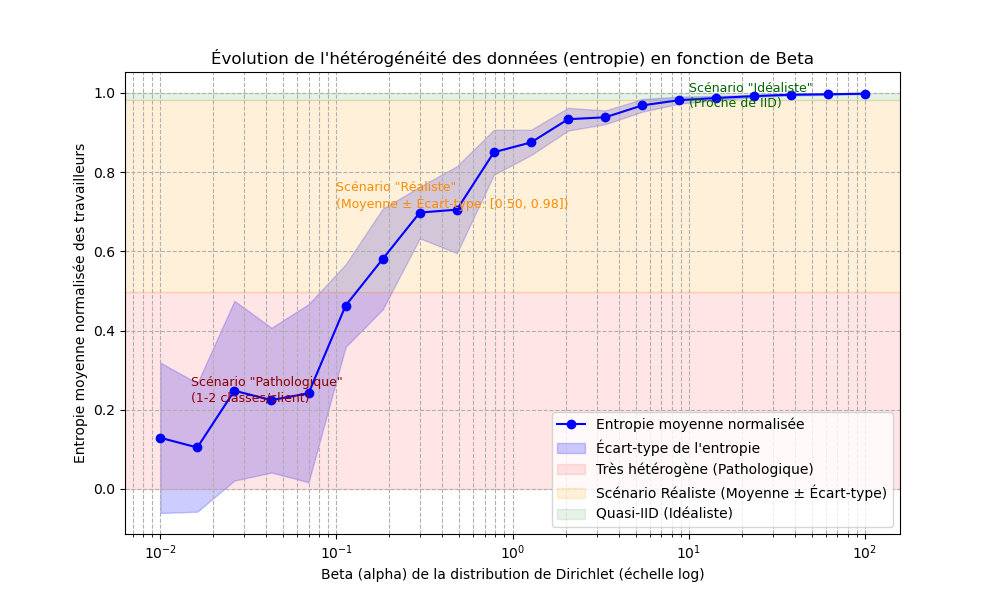
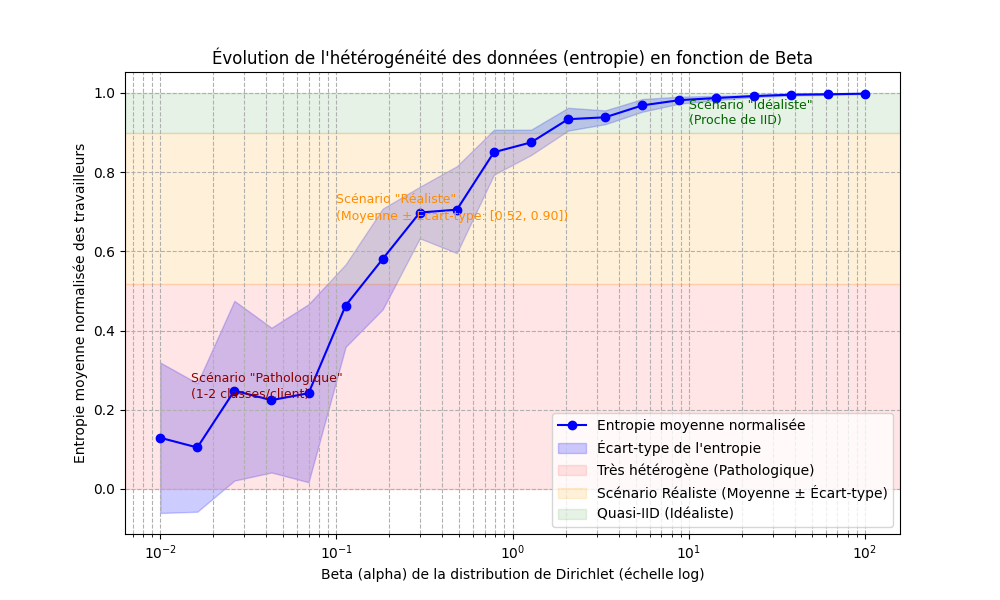
finance

diff --git a/finance/data_finance.py b/finance/data_finance.py
@@ -1,0 +1,105 @@
+import yfinance as yf
+import pandas as pd
+import numpy as np
+import seaborn as sns
+import matplotlib.pyplot as plt
+import json
+import os
+
+# Définition des "Profils" de clients via des tickers spécifiques
+# Chaque liste représente un worker avec une "histoire" différente
+sectors = {
+    "Worker_Tech_Volatile": ['NVDA', 'AMD', 'TSLA', 'BTC-USD'],
+    "Worker_Stable_Consumer": ['KO', 'PG', 'JNJ', 'WMT'], # Coca, Procter & Gamble...
+    "Worker_Banking_Cyclical": ['JPM', 'BAC', 'GS', 'C'],
+    "Worker_Energy": ['XOM', 'CVX', 'SHEL', 'TTE'], # Exxon, Chevron, Shell, Total
+    "Worker_Industrial": ['CAT', 'BA', 'GE', 'HON'], # Caterpillar, Boeing, General Electric
+    "Worker_Healthcare": ['PFE', 'MRK', 'UNH', 'ABBV'], # Pfizer, Merck, UnitedHealth
+    "Worker_Retail": ['AMZN', 'HD', 'TGT', 'COST'] # Amazon, Home Depot, Target, Costco
+}
+
+def get_client_data(tickers, start='2020-01-01', end='2023-01-01'):
+    # Téléchargement
+    data = yf.download(tickers, start=start, end=end, progress=False, auto_adjust=True)['Close']
+    
+    # On calcule les rendements (Log-returns sont préférables pour les stats)
+    # Log return assure une meilleure symétrie théorique
+    returns = np.log(data / data.shift(1)).dropna()
+    
+    # On "aplatit" tout en une seule série pour avoir la distribution globale du client
+    # (Comme si le client avait un portefeuille de ces actifs)
+    flat_series = returns.values.flatten()
+    
+    # Nettoyage des infinis/na
+    flat_series = flat_series[~np.isnan(flat_series)]
+    flat_series = flat_series[~np.isinf(flat_series)]
+    
+    return flat_series
+
+def estimate_entropy(data, bins=100):
+    """
+    Estime l'entropie de Shannon d'une série de données continues en la discrétisant.
+    H(X) = - sum(p(x) * log2(p(x)))
+    """
+    # 1. Créer un histogramme pour obtenir les fréquences des bins
+    counts, _ = np.histogram(data, bins=bins)
+    
+    # 2. Convertir les fréquences en probabilités
+    probabilities = counts / counts.sum()
+    
+    # 3. Filtrer les probabilités nulles (car log(0) est indéfini)
+    probabilities = probabilities[probabilities > 0]
+    
+    # 4. Calculer l'entropie
+    entropy = -np.sum(probabilities * np.log2(probabilities))
+    
+    return entropy
+
+# --- Paramètres ---
+BINS = 100
+
+# Création des datasets des workers
+clients_data = {}
+entropy_results_for_json = {}
+
+for name, tickers in sectors.items():
+    print(f"Construction du {name}...")
+    data = get_client_data(tickers)
+    entropy = estimate_entropy(data, bins=BINS)
+    
+    # L'entropie est normalisée pour être entre 0 et 1, comme dans les autres scripts
+    # L'entropie maximale pour K bins est log2(K)
+    normalized_entropy = entropy / np.log2(BINS) if BINS > 1 else 0
+    
+    clients_data[name] = {"data": data, "entropy": entropy, "normalized_entropy": normalized_entropy}
+    entropy_results_for_json[name] = {
+        "entropy": entropy,
+        "normalized_entropy": normalized_entropy,
+        "bins": BINS
+    }
+    print(f"-> Entropie: {entropy:.4f} bits | Entropie Normalisée: {normalized_entropy:.4f}")
+
+# --- Sauvegarde des résultats pour entropy_vs_beta.py ---
+# Construire un chemin absolu vers le dossier 'entropy' à la racine du projet
+script_dir = os.path.dirname(os.path.abspath(__file__))
+project_root = os.path.dirname(script_dir)
+output_dir = os.path.join(project_root, "entropy")
+os.makedirs(output_dir, exist_ok=True)
+json_path = os.path.join(output_dir, "finance_entropy_analysis.json")
+with open(json_path, 'w') as f:
+    json.dump(entropy_results_for_json, f, indent=4)
+print(f"\nRésultats d'entropie sauvegardés dans : {json_path}")
+
+plt.figure(figsize=(14, 8))
+
+# On trace la densité de probabilité (KDE) pour chaque worker
+for client_name, values in clients_data.items():
+    label = f"{client_name} (Entropie Norm: {values['normalized_entropy']:.2f})"
+    sns.kdeplot(values['data'], label=label, fill=True, alpha=0.3, common_norm=False)
+
+plt.title("Visualisation du Non-IID : Densité des rendements et Entropie par client")
+plt.xlabel("Log-Rendements Journaliers")
+plt.xlim(-0.10, 0.10) # Zoom pour bien voir les différences centrales
+plt.grid(True, alpha=0.3)
+plt.legend()
+plt.show()

diff --git a/entropy/entropy_vs_beta.py b/entropy/entropy_vs_beta.py
@@ -120,6 +120,16 @@ def load_real_world_entropies():
             elif raw_entropy > 0: # Cas étrange, mais pour être sûr
                 real_entropies.append(1.0) # Non normalisable, mais clairement hétérogène
 
+    # Fichier 3: Finance Data
+    finance_path = os.path.join(script_dir, 'finance_entropy_analysis.json')
+    if os.path.exists(finance_path):
+        with open(finance_path, 'r') as f:
+            finance_data = json.load(f)
+        for worker_data in finance_data.values():
+            # L'entropie est déjà normalisée dans le script de génération
+            if 'normalized_entropy' in worker_data:
+                real_entropies.append(worker_data['normalized_entropy'])
+
     return real_entropies
 
 real_world_entropies = load_real_world_entropies()
